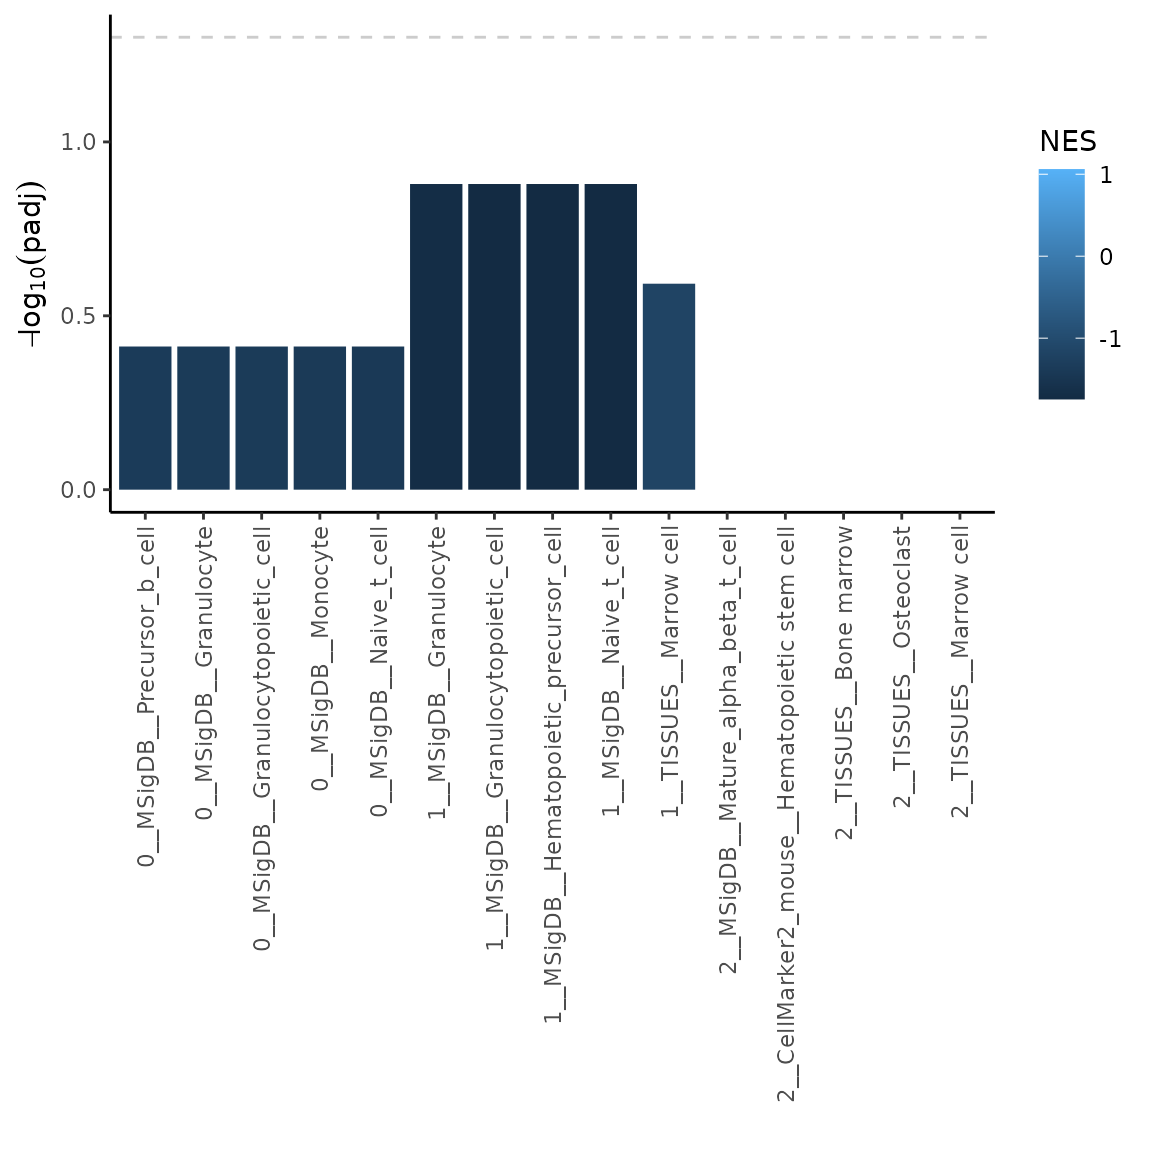
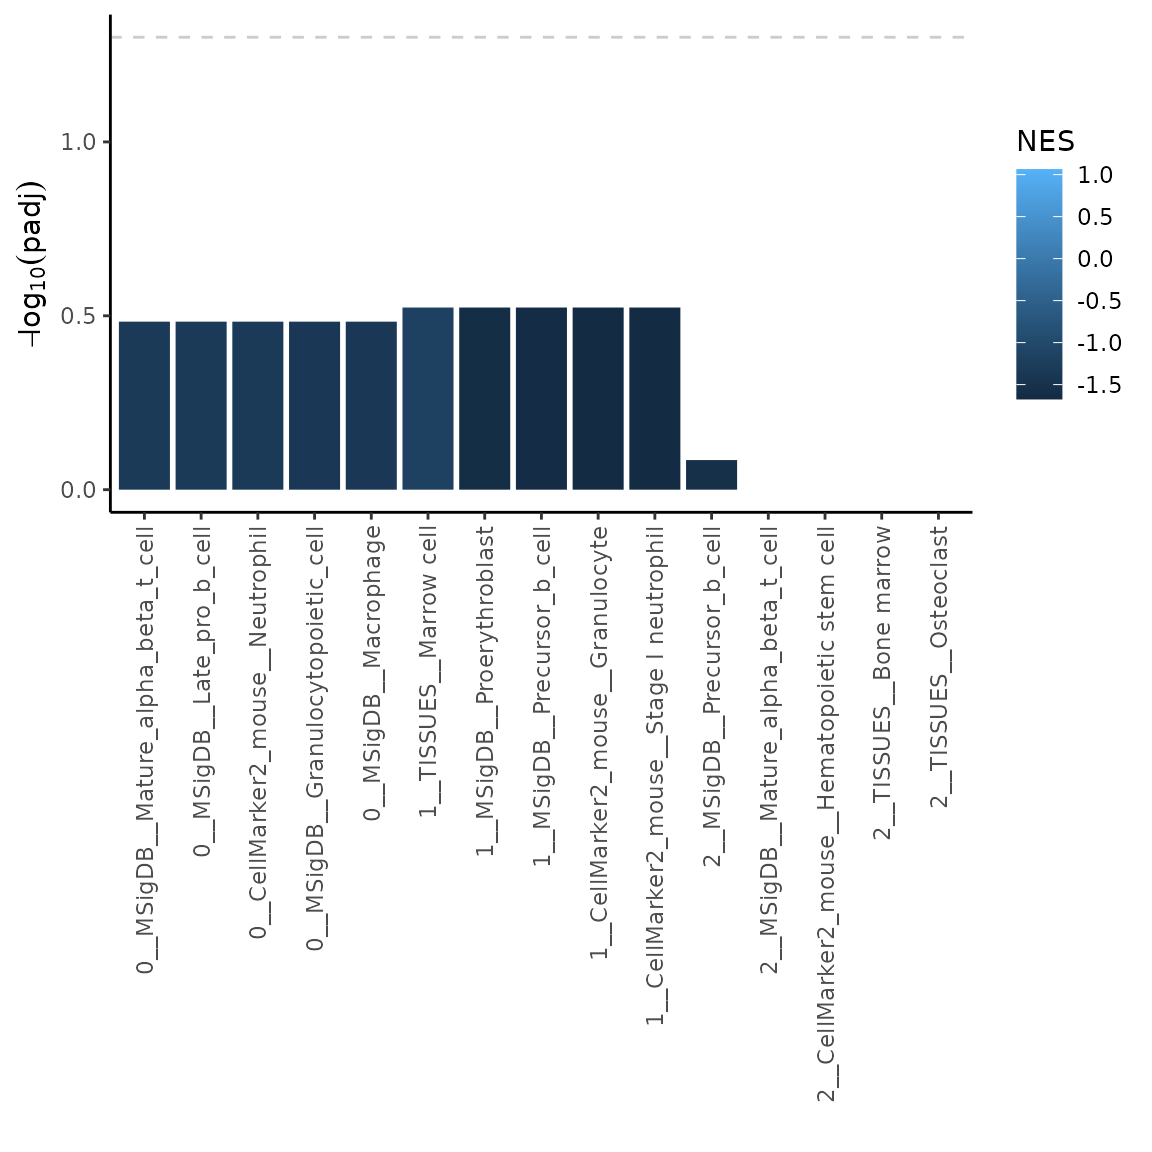
Deploying to gh-pages from @ Farber-Lab/BoneCellType@f2bd65f10f5f695d5afd91c8a0b4aeeb1e213484 🚀

diff --git a/articles/intro_to_BoneCellType.html b/articles/intro_to_BoneCellType.html
@@ -218,21 +218,21 @@ results.</p>
 <span>  <span class="fu"><a href="https://dplyr.tidyverse.org/reference/top_n.html" class="external-link">top_n</a></span><span class="op">(</span>n <span class="op">=</span> <span class="fl">2</span>, wt <span class="op">=</span> <span class="op">-</span><span class="va">padj</span><span class="op">)</span></span>
 <span></span>
 <span><span class="va">topGSEAres</span></span></code></pre></div>
-<pre><code><span><span class="co">#&gt; <span style="color: #949494;"># A tibble: 21 × 9</span></span></span>
+<pre><code><span><span class="co">#&gt; <span style="color: #949494;"># A tibble: 34 × 9</span></span></span>
 <span><span class="co">#&gt; <span style="color: #949494;"># Groups:   cluster [3]</span></span></span>
 <span><span class="co">#&gt;    pathway             pval  padj log2err     ES   NES  size leadingEdge cluster</span></span>
 <span><span class="co">#&gt;    <span style="color: #949494; font-style: italic;">&lt;chr&gt;</span>              <span style="color: #949494; font-style: italic;">&lt;dbl&gt;</span> <span style="color: #949494; font-style: italic;">&lt;dbl&gt;</span>   <span style="color: #949494; font-style: italic;">&lt;dbl&gt;</span>  <span style="color: #949494; font-style: italic;">&lt;dbl&gt;</span> <span style="color: #949494; font-style: italic;">&lt;dbl&gt;</span> <span style="color: #949494; font-style: italic;">&lt;int&gt;</span> <span style="color: #949494; font-style: italic;">&lt;chr&gt;</span>         <span style="color: #949494; font-style: italic;">&lt;int&gt;</span></span></span>
-<span><span class="co">#&gt; <span style="color: #BCBCBC;"> 1</span> CellMarker2_mous… 0.088<span style="text-decoration: underline;">2</span> 0.388   0.175 -<span style="color: #BB0000;">0.905</span> -<span style="color: #BB0000;">1.44</span>     7 Hba-a1            0</span></span>
-<span><span class="co">#&gt; <span style="color: #BCBCBC;"> 2</span> CellMarker2_mous… 0.084<span style="text-decoration: underline;">5</span> 0.388   0.177 -<span style="color: #BB0000;">0.901</span> -<span style="color: #BB0000;">1.44</span>     8 Hba-a1,Hbb…       0</span></span>
-<span><span class="co">#&gt; <span style="color: #BCBCBC;"> 3</span> CellMarker2_mous… 0.084<span style="text-decoration: underline;">1</span> 0.388   0.188 -<span style="color: #BB0000;">0.927</span> -<span style="color: #BB0000;">1.42</span>     5 Hba-a1            0</span></span>
-<span><span class="co">#&gt; <span style="color: #BCBCBC;"> 4</span> MSigDB__Granuloc… 0.120  0.388   0.155 -<span style="color: #BB0000;">0.896</span> -<span style="color: #BB0000;">1.37</span>     5 S100a9,Mal…       0</span></span>
-<span><span class="co">#&gt; <span style="color: #BCBCBC;"> 5</span> MSigDB__Granuloc… 0.131  0.388   0.129 -<span style="color: #BB0000;">0.829</span> -<span style="color: #BB0000;">1.37</span>    13 S100a9,Mal…       0</span></span>
-<span><span class="co">#&gt; <span style="color: #BCBCBC;"> 6</span> MSigDB__Hematopo… 0.096<span style="text-decoration: underline;">5</span> 0.388   0.164 -<span style="color: #BB0000;">0.889</span> -<span style="color: #BB0000;">1.42</span>     8 S100a9,Mal…       0</span></span>
-<span><span class="co">#&gt; <span style="color: #BCBCBC;"> 7</span> MSigDB__Monocyte  0.102  0.388   0.170 -<span style="color: #BB0000;">0.909</span> -<span style="color: #BB0000;">1.39</span>     5 S100a9,Ltf…       0</span></span>
-<span><span class="co">#&gt; <span style="color: #BCBCBC;"> 8</span> MSigDB__Naive_t_… 0.096<span style="text-decoration: underline;">1</span> 0.388   0.175 -<span style="color: #BB0000;">0.920</span> -<span style="color: #BB0000;">1.41</span>     5 S100a9,Mal…       0</span></span>
-<span><span class="co">#&gt; <span style="color: #BCBCBC;"> 9</span> MSigDB__Precurso… 0.134  0.388   0.146 -<span style="color: #BB0000;">0.890</span> -<span style="color: #BB0000;">1.36</span>     5 S100a9,Ltf…       0</span></span>
-<span><span class="co">#&gt; <span style="color: #BCBCBC;">10</span> MSigDB__Promonoc… 0.087<span style="text-decoration: underline;">3</span> 0.388   0.180 -<span style="color: #BB0000;">0.915</span> -<span style="color: #BB0000;">1.43</span>     6 S100a9,Mal…       0</span></span>
-<span><span class="co">#&gt; <span style="color: #949494;"># ℹ 11 more rows</span></span></span></code></pre>
+<span><span class="co">#&gt; <span style="color: #BCBCBC;"> 1</span> CellMarker2_mous… 0.098<span style="text-decoration: underline;">5</span> 0.329   0.164 -<span style="color: #BB0000;">0.905</span> -<span style="color: #BB0000;">1.43</span>     7 Hba-a1            0</span></span>
+<span><span class="co">#&gt; <span style="color: #BCBCBC;"> 2</span> CellMarker2_mous… 0.147  0.329   0.134 -<span style="color: #BB0000;">0.852</span> -<span style="color: #BB0000;">1.33</span>     6 S100a9,Ltf…       0</span></span>
+<span><span class="co">#&gt; <span style="color: #BCBCBC;"> 3</span> CellMarker2_mous… 0.095<span style="text-decoration: underline;">8</span> 0.329   0.163 -<span style="color: #BB0000;">0.901</span> -<span style="color: #BB0000;">1.45</span>     8 Hba-a1,Hbb…       0</span></span>
+<span><span class="co">#&gt; <span style="color: #BCBCBC;"> 4</span> CellMarker2_mous… 0.073<span style="text-decoration: underline;">9</span> 0.329   0.198 -<span style="color: #BB0000;">0.927</span> -<span style="color: #BB0000;">1.44</span>     5 Hba-a1            0</span></span>
+<span><span class="co">#&gt; <span style="color: #BCBCBC;"> 5</span> MSigDB__Granuloc… 0.104  0.329   0.164 -<span style="color: #BB0000;">0.896</span> -<span style="color: #BB0000;">1.40</span>     5 S100a9,Mal…       0</span></span>
+<span><span class="co">#&gt; <span style="color: #BCBCBC;"> 6</span> MSigDB__Granuloc… 0.137  0.329   0.126 -<span style="color: #BB0000;">0.829</span> -<span style="color: #BB0000;">1.36</span>    13 S100a9,Mal…       0</span></span>
+<span><span class="co">#&gt; <span style="color: #BCBCBC;"> 7</span> MSigDB__Hematopo… 0.108  0.329   0.153 -<span style="color: #BB0000;">0.889</span> -<span style="color: #BB0000;">1.43</span>     8 S100a9,Mal…       0</span></span>
+<span><span class="co">#&gt; <span style="color: #BCBCBC;"> 8</span> MSigDB__Late_pro… 0.154  0.329   0.130 -<span style="color: #BB0000;">0.847</span> -<span style="color: #BB0000;">1.33</span>     6 S100a9,S10…       0</span></span>
+<span><span class="co">#&gt; <span style="color: #BCBCBC;"> 9</span> MSigDB__Macropha… 0.155  0.329   0.125 -<span style="color: #BB0000;">0.847</span> -<span style="color: #BB0000;">1.36</span>     8 S100a9,Ltf…       0</span></span>
+<span><span class="co">#&gt; <span style="color: #BCBCBC;">10</span> MSigDB__Mature_a… 0.159  0.329   0.128 -<span style="color: #BB0000;">0.843</span> -<span style="color: #BB0000;">1.32</span>     6 Malat1            0</span></span>
+<span><span class="co">#&gt; <span style="color: #949494;"># ℹ 24 more rows</span></span></span></code></pre>
 <p>As shown, the output is a table with following variables-
 <em>pathaway</em>: defines a set of markers used for GSEA analysis /
 <em>pval</em>: p-value / <em>padj</em>: adjusted p-value /
